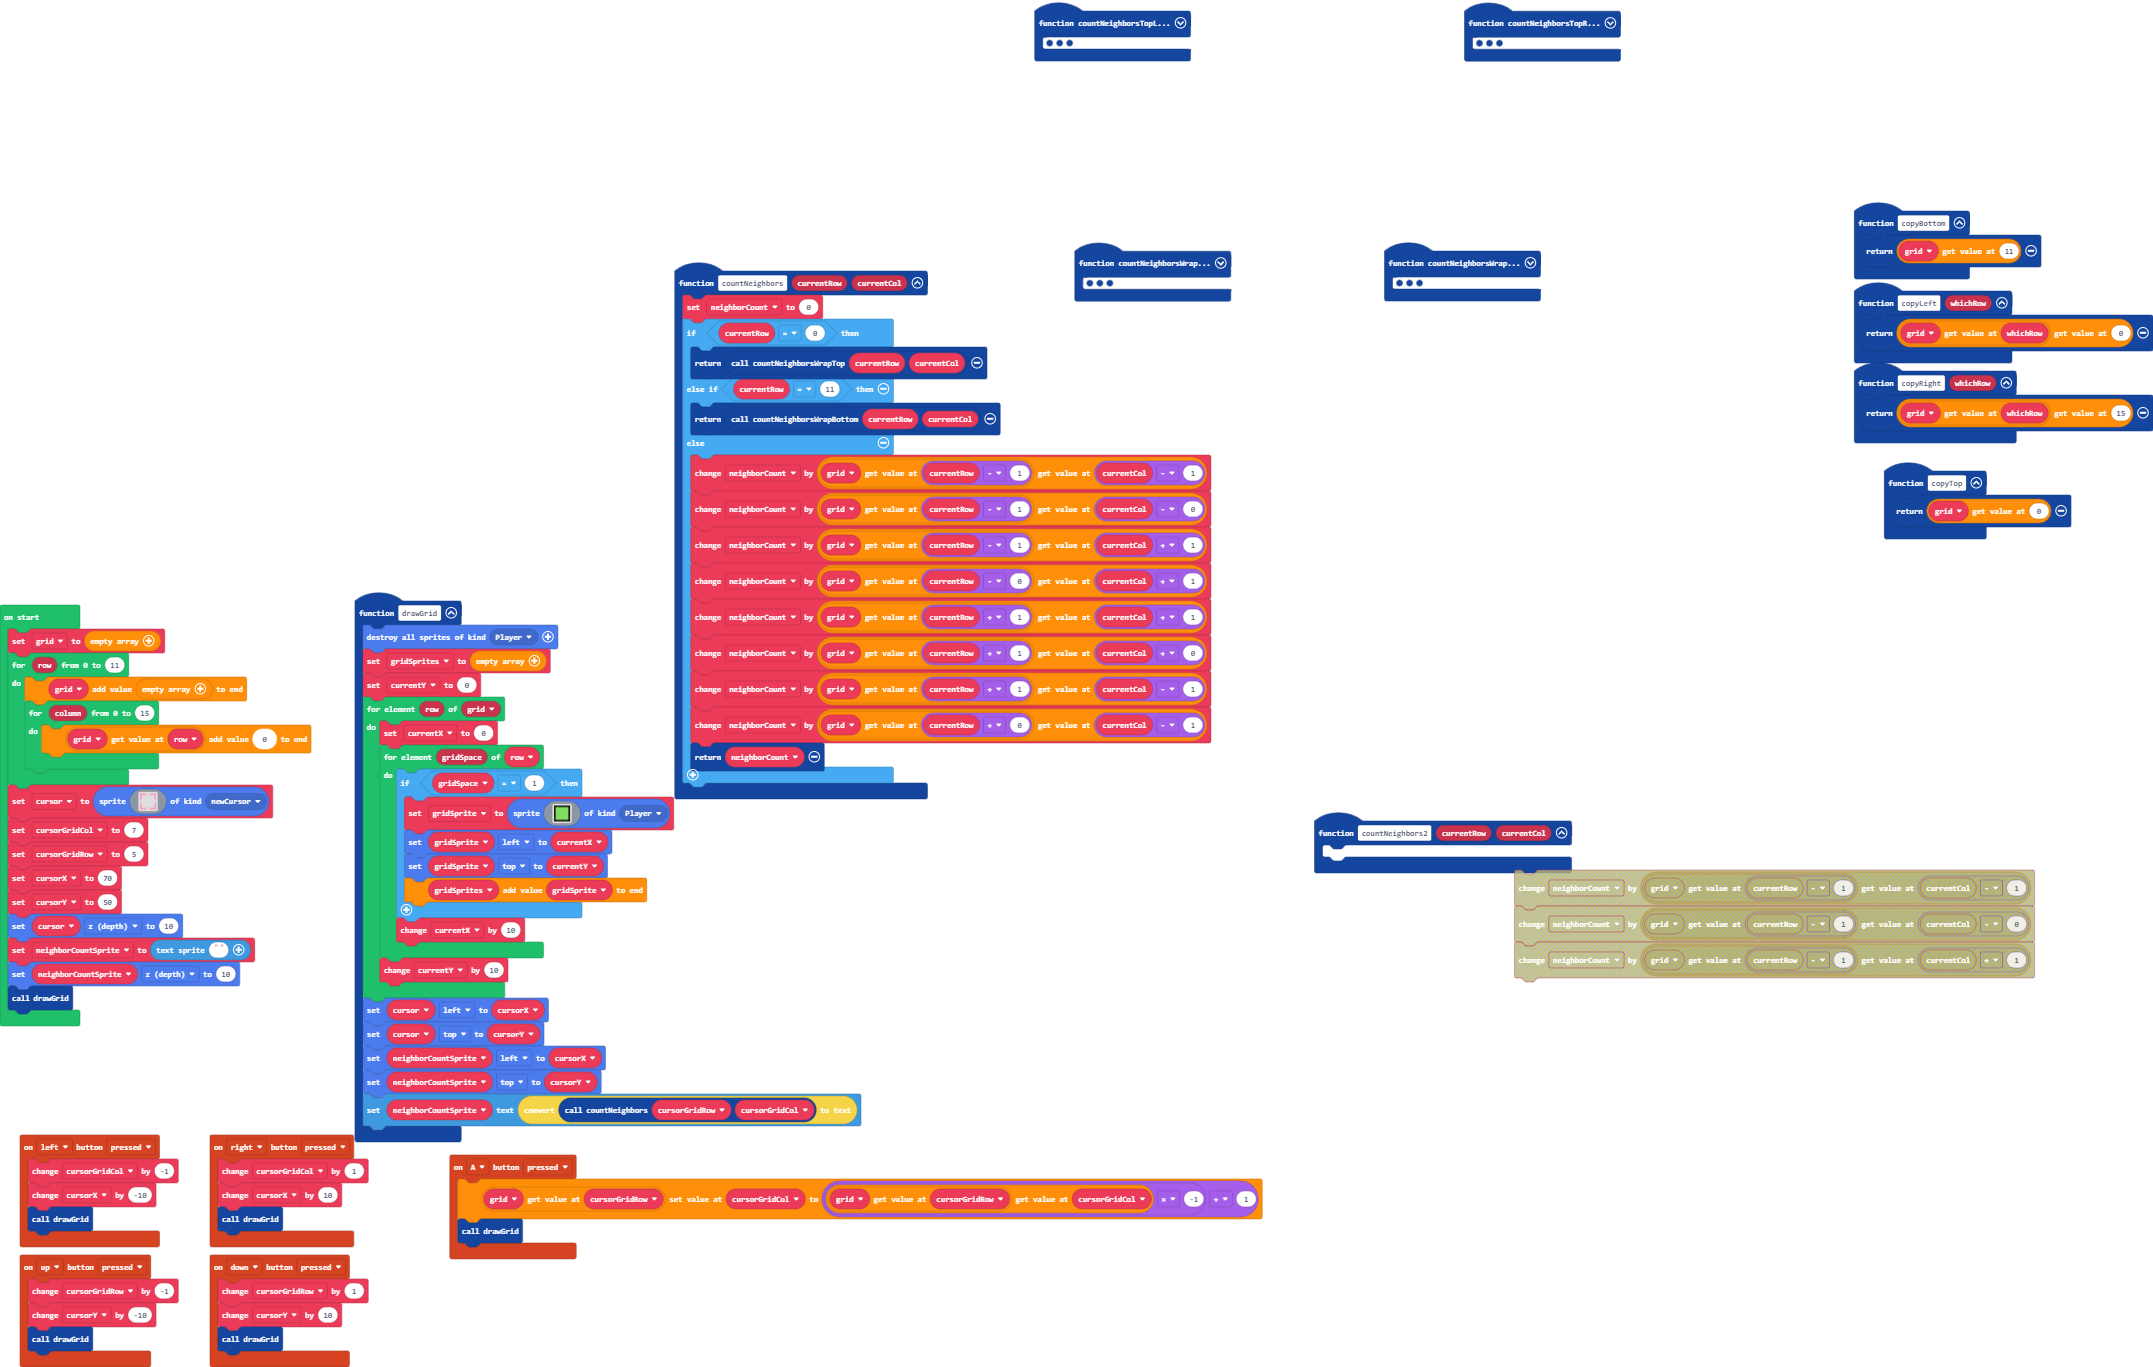
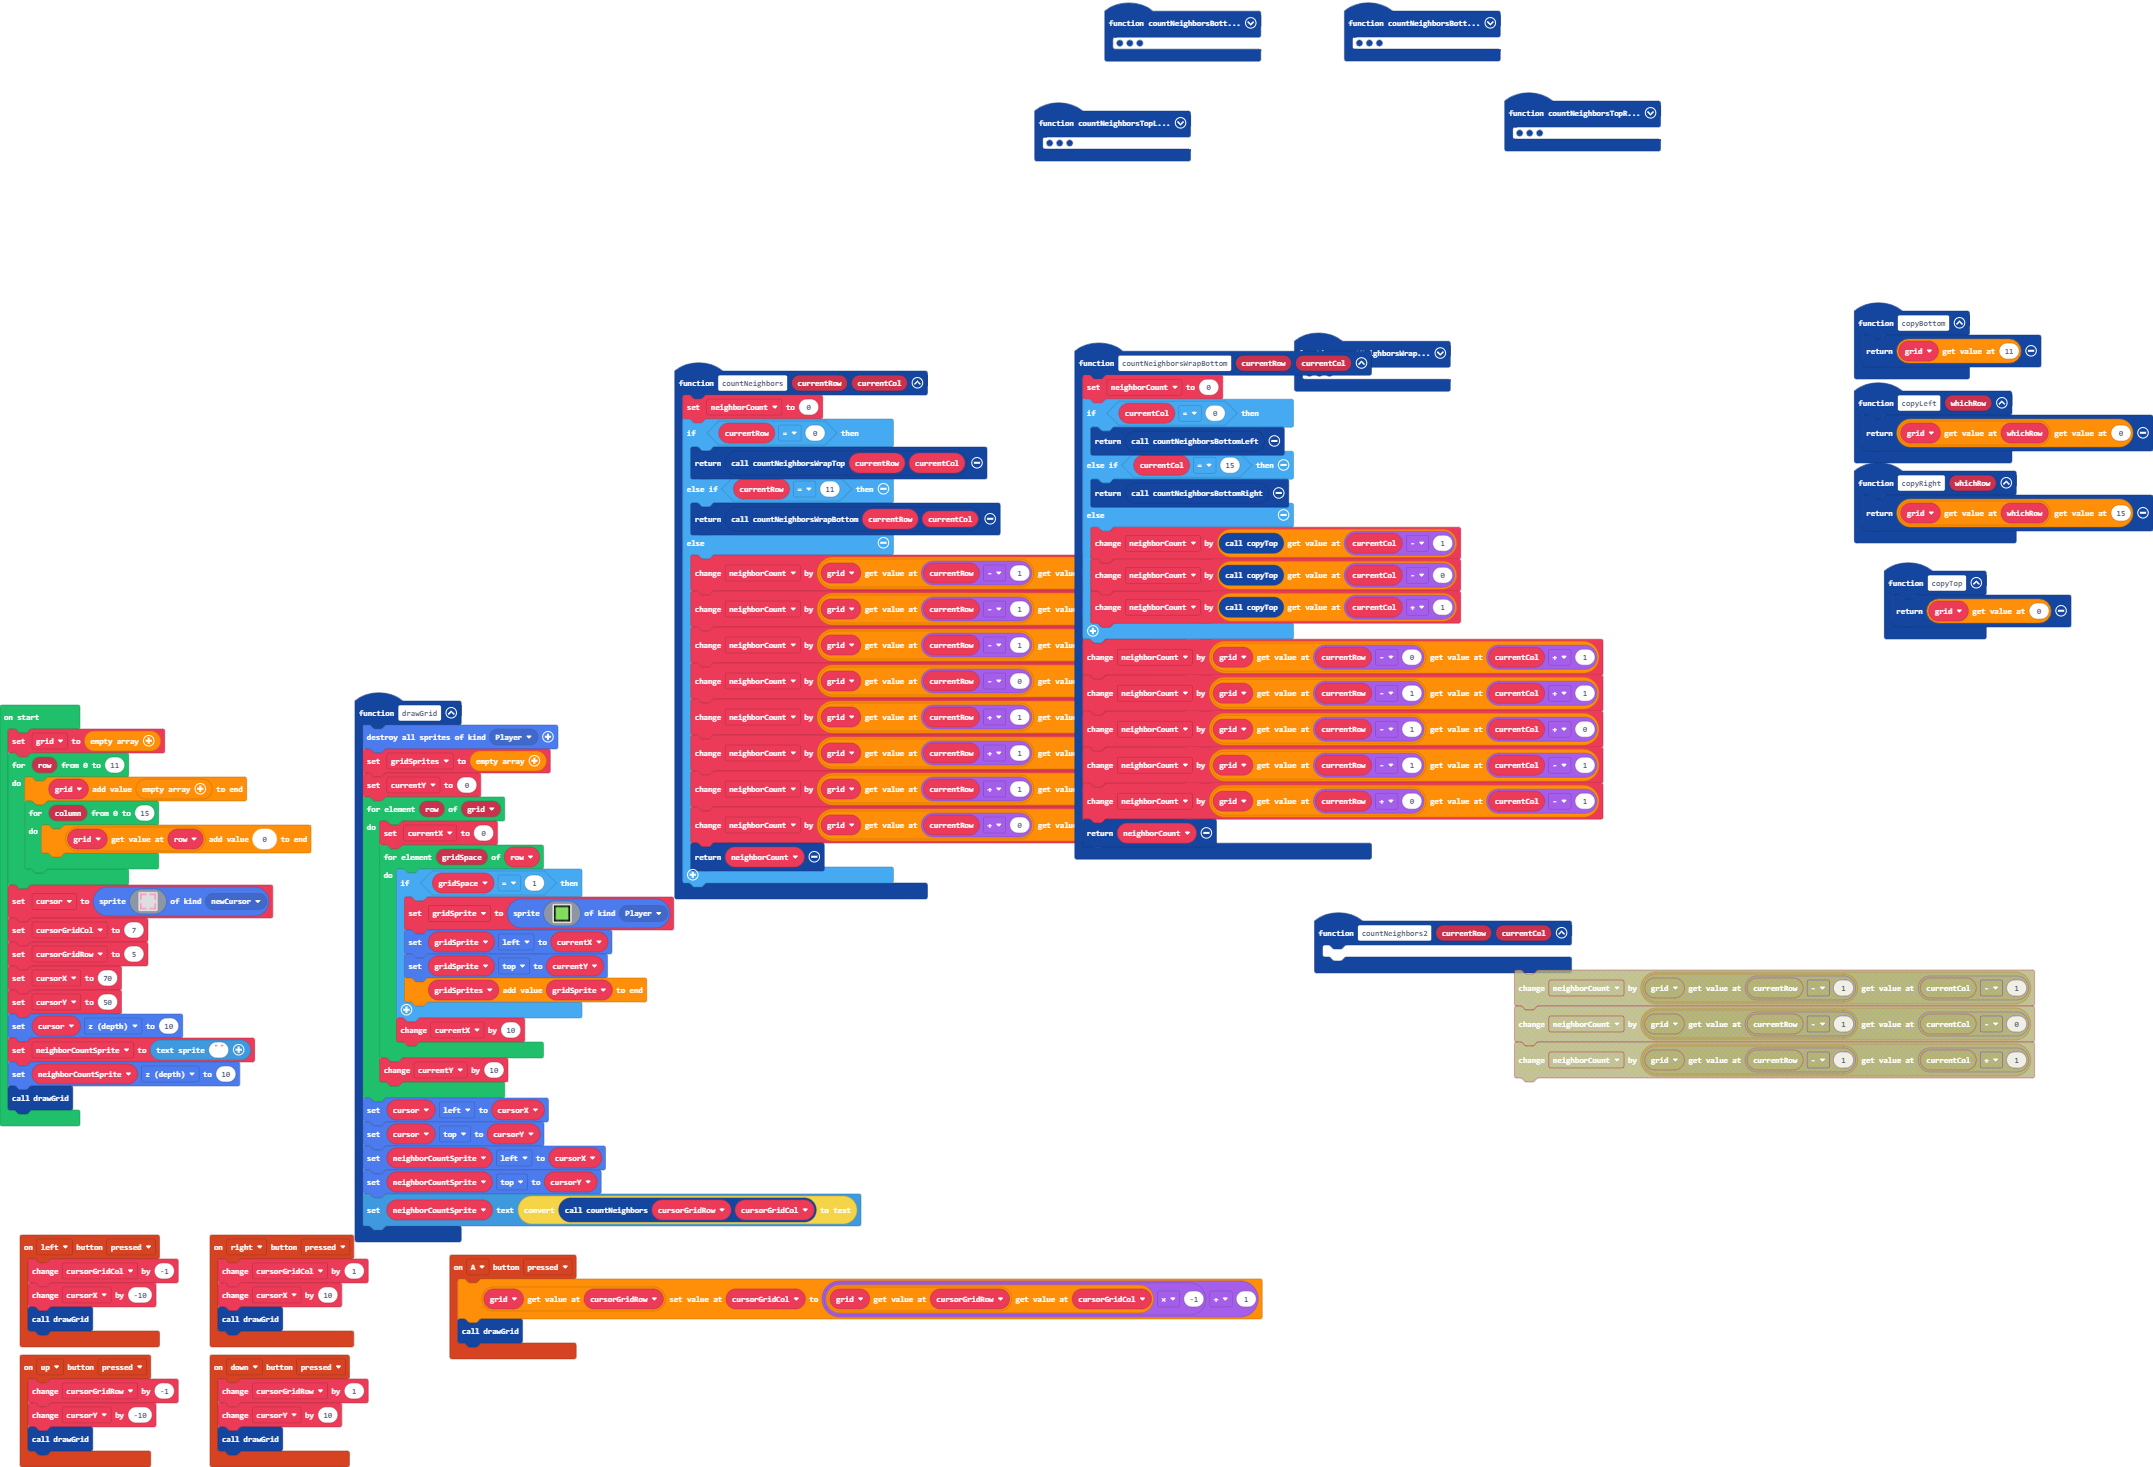
wrap bottom left and right

diff --git a/main.ts b/main.ts
@@ -7,6 +7,18 @@ controller.up.onEvent(ControllerButtonEvent.Pressed, function () {
     cursorY += -10
     drawGrid()
 })
+function countNeighborsBottomLeft () {
+    neighborCount = 0
+    neighborCount += grid[11 - 0][0 + 1]
+    neighborCount += grid[11 - 1][0 + 0]
+    neighborCount += grid[11 - 1][0 + 1]
+    neighborCount += copyRight(10)
+    neighborCount += copyRight(0)
+    neighborCount += copyRight(11)
+    neighborCount += copyTop()[0]
+    neighborCount += copyTop()[1]
+    return neighborCount
+}
 controller.A.onEvent(ControllerButtonEvent.Pressed, function () {
     grid[cursorGridRow][cursorGridCol] = grid[cursorGridRow][cursorGridCol] * -1 + 1
     drawGrid()
@@ -94,6 +106,18 @@ function countNeighborsTopLeft () {
     neighborCount += copyBottom()[1]
     return neighborCount
 }
+function countNeighborsBottomRight () {
+    neighborCount = 0
+    neighborCount += grid[11 - 0][15 - 1]
+    neighborCount += grid[11 - 1][15 - 1]
+    neighborCount += grid[11 - 1][15 + 0]
+    neighborCount += copyLeft(10)
+    neighborCount += copyLeft(0)
+    neighborCount += copyLeft(11)
+    neighborCount += copyTop()[15]
+    neighborCount += copyTop()[14]
+    return neighborCount
+}
 function countNeighbors (currentRow: number, currentCol: number) {
     neighborCount = 0
     if (currentRow == 0) {
@@ -135,9 +159,9 @@ function copyLeft (whichRow: number) {
 function countNeighborsWrapBottom (currentRow: number, currentCol: number) {
     neighborCount = 0
     if (currentCol == 0) {
-        return 0
+        return countNeighborsBottomLeft()
     } else if (currentCol == 15) {
-        return 0
+        return countNeighborsBottomRight()
     } else {
         neighborCount += copyTop()[currentCol - 1]
         neighborCount += copyTop()[currentCol - 0]
@@ -153,11 +177,11 @@ function countNeighborsWrapBottom (currentRow: number, currentCol: number) {
 function copyTop () {
     return grid[0]
 }
-let neighborCount = 0
 let gridSprite: Sprite = null
 let currentX = 0
 let currentY = 0
 let gridSprites: Sprite[] = []
+let neighborCount = 0
 let neighborCountSprite: TextSprite = null
 let cursorY = 0
 let cursorX = 0
